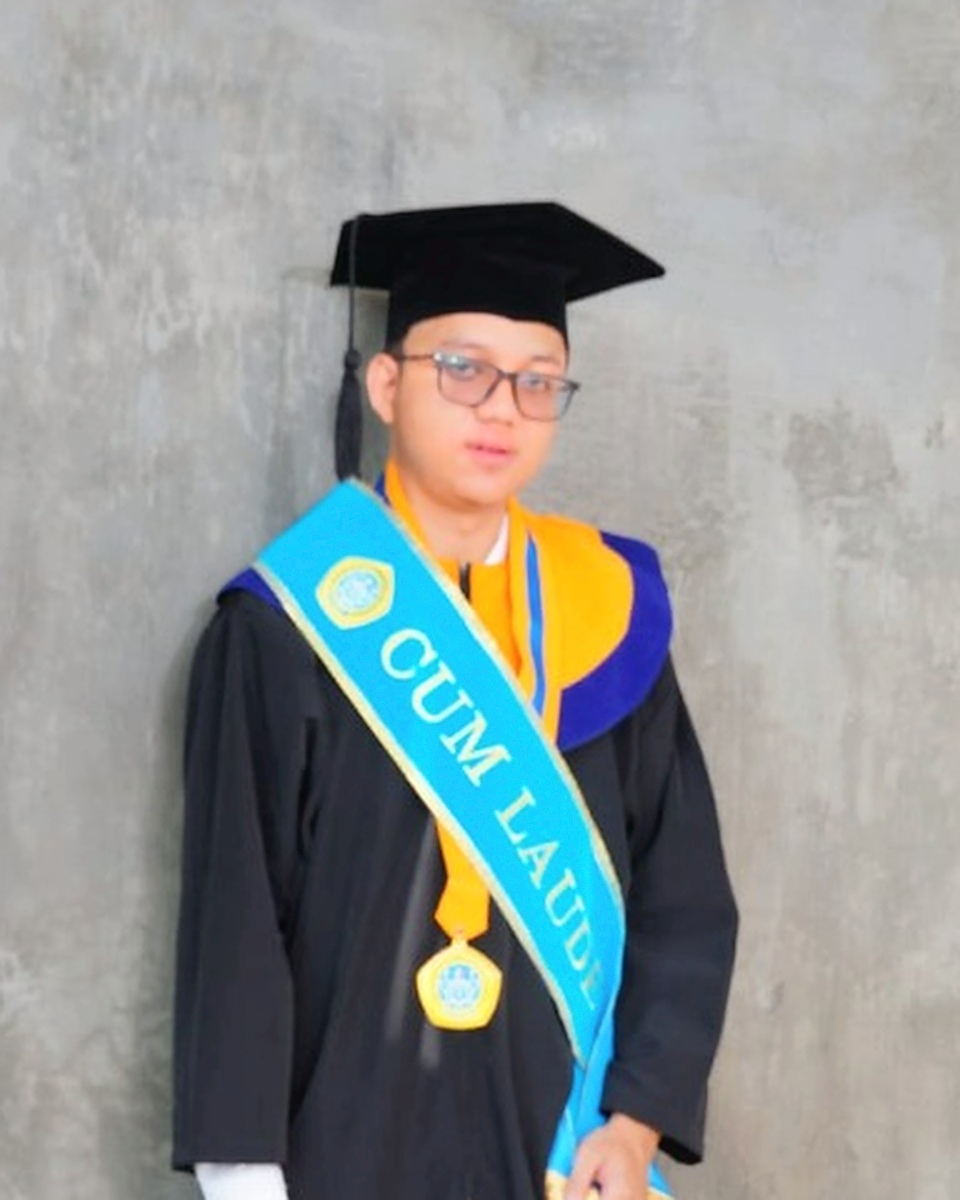
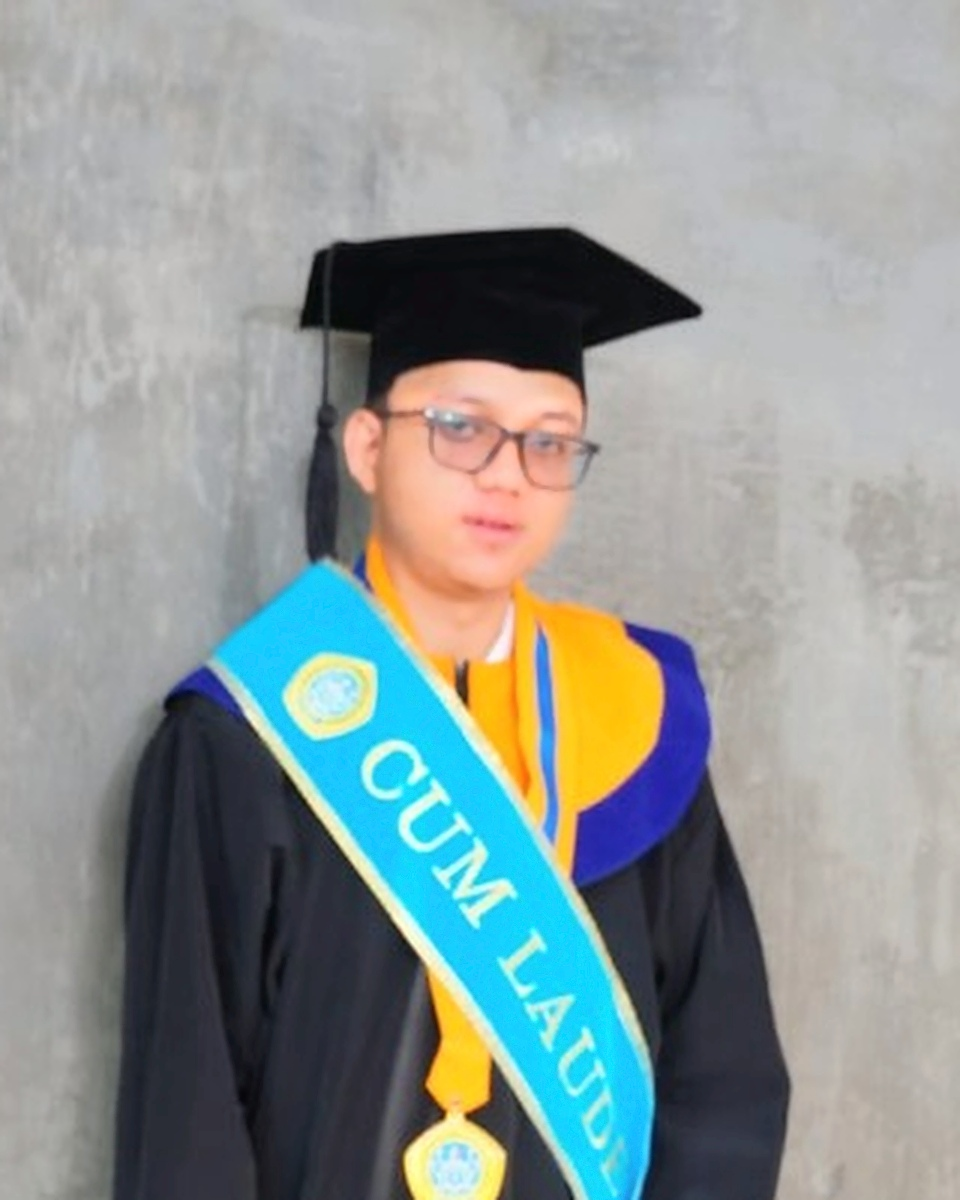
feat(profile): use closer cropped and brightened wisuda portrait with direct cache bust

diff --git a/src/app/page.tsx b/src/app/page.tsx
@@ -1508,7 +1508,7 @@ export default function PortfolioPage() {
                 className="spotlight-card group relative w-full max-w-[250px] sm:max-w-[300px] lg:max-w-[340px] aspect-[4/5] lg:aspect-auto lg:flex-1 lg:min-h-[390px] overflow-hidden rounded-2xl border border-zinc-800/90 bg-zinc-900 shadow-[0_20px_50px_rgba(0,0,0,0.6),inset_0_1px_0_0_rgba(255,255,255,0.1)] hover:border-zinc-700"
               >
                 <Image
-                  src="/profile.jpeg"
+                  src="/profile-wisuda.jpg"
                   alt="Edvan Nuriana Putra Septia, S.Kom."
                   fill
                   sizes="(max-width: 768px) 250px, (max-width: 1280px) 300px, 340px"
